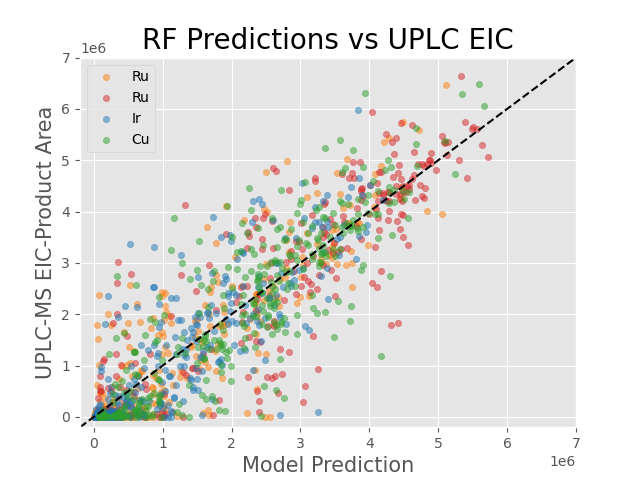
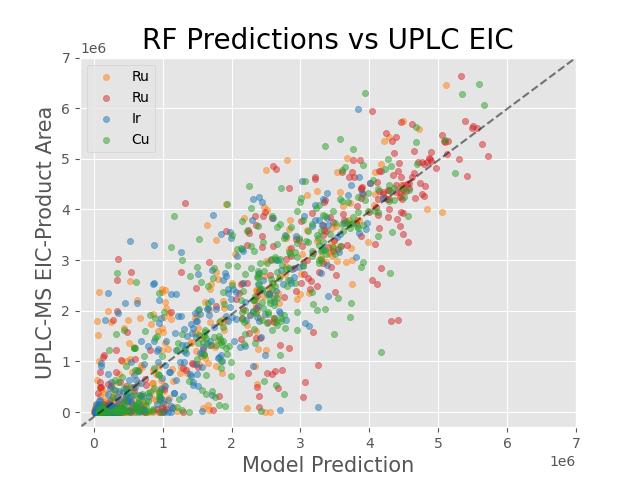
commenting code

diff --git a/src/data_cleaning.py b/src/data_cleaning.py
@@ -27,6 +27,8 @@ Cu_MALDI = df['Cu MALDI Product Intensity']
 Cu_norm_MALDI = df['Cu Normalized MALDI Pdt/IS']
 Cu_EIC = df['Cu EIC(+)[M+H] Product Area']
 
+
+# visualizing normalized MALDI vs UPLC EIC
 norm_MALDI_EIC, ax = plt.subplots()
 ax.scatter(Ru_norm_MALDI, Ru_EIC, label='Ru', alpha=0.5, s=20)
 ax.scatter(Pd_norm_MALDI, Pd_EIC, label='Pd', alpha=0.5, s=20)
@@ -37,7 +39,7 @@ ax.set_ylabel('EIC product area')
 ax.set_title('normalized MALDI vs EIC')
 ax.legend()
 
-
+# visualizing raw MALDI vs UPLC EIC
 MALDI_EIC, ax2 = plt.subplots()
 ax2.scatter(Ru_MALDI, Ru_EIC, label='Ru', alpha=0.5, s=20, color='tab:orange')
 ax2.scatter(Pd_MALDI, Pd_EIC, label='Pd', alpha=0.5, s=20, color='tab:red')
@@ -51,16 +53,19 @@ ax2.legend()
 plt.show()
 
 
-# combining data from each catalyst
-
+# separating data into each catalyst type
+# X contains all the chemical information for that reaction
 X = df.loc[:, 'Location':'Piperazines N-Aryl']
+# y_Cat contains the resulting data for that reaction for each catalyst type
 y_Cu = df.loc[:, 'Cu TWC Product Area': 'Cu Normalized MALDI Pdt/IS']
 y_Ir = df.loc[:, 'Ir TWC Product Area': 'Ir Normalized MALDI Pdt/IS']
 y_Pd = df.loc[:, 'Pd TWC Product Area': 'Pd Normalized MALDI Pdt/IS']
 y_Ru = df.loc[:, 'Ru TWC Product Area': 'Ru Normalized MALDI Pdt/IS']
 
+# These columns will store data about which catalyst type was used
 blank_cat_df = pd.DataFrame(np.zeros((384, 4)), columns=['Cu_cat', 'Ir_cat', 'Pd_cat', 'Ru_cat'])
 
+# combine reaction data with catalyst type columns and label appropriately
 y_Cu = pd.concat([y_Cu, blank_cat_df], axis=1)
 y_Cu['Cu_cat'] = 1
 y_Ir = pd.concat([y_Ir, blank_cat_df], axis=1)
@@ -70,6 +75,7 @@ y_Pd['Pd_cat'] = 1
 y_Ru = pd.concat([y_Ru, blank_cat_df], axis=1)
 y_Ru['Ru_cat'] = 1
 
+# Combine the chemical information with the reaction data for each catalyst type
 df_Cu = pd.concat([X, y_Cu], axis=1)
 df_Cu.rename(columns=dict(zip(df_Cu.columns[-12:-4], df_Cu.columns[-12:-4].str[3:])), inplace=True)
 df_Ir = pd.concat([X, y_Ir], axis=1)
@@ -79,6 +85,7 @@ df_Pd.rename(columns=dict(zip(df_Pd.columns[-12:-4], df_Pd.columns[-12:-4].str[3
 df_Ru = pd.concat([X, y_Ru], axis=1)
 df_Ru.rename(columns=dict(zip(df_Ru.columns[-12:-4], df_Ru.columns[-12:-4].str[3:])), inplace=True)
 
+# combine into one csv
 df_out = pd.concat([df_Cu, df_Ir, df_Pd, df_Ru], axis=0)
 print(df_out)
 

diff --git a/src/plotting.py b/src/plotting.py
@@ -110,9 +110,9 @@ ax.scatter(Ir_x, Ir_y, label='Ir', alpha=0.5, s=20, color='tab:blue')
 ax.scatter(Cu_x, Cu_y, label='Cu', alpha=0.5, s=20, color='tab:green')
 ax.set_xlabel('Model Prediction', size=15)
 ax.set_ylabel('UPLC-MS EIC-Product Area', size=15)
-ax.set_ylim(-0.2e6, 7e6)
+ax.set_ylim(-0.3e6, 7e6)
 ax.set_xlim(-0.2e6, 7e6)
-ax.plot([0,7e6],[0,7e6], transform=ax.transAxes, color='black', linestyle='--')
+ax.plot([0,7e6],[0,7e6], transform=ax.transAxes, color='black', linestyle='--', alpha=0.5)
 ax.set_title('RF Predictions vs UPLC EIC', size=20)
 ax.legend()
 plt.show()
